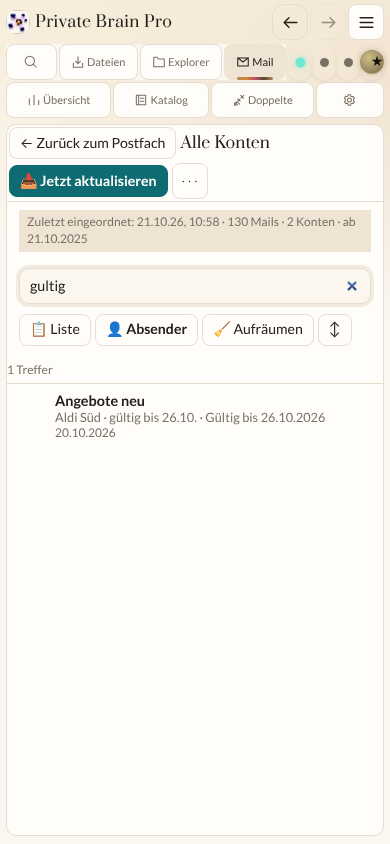
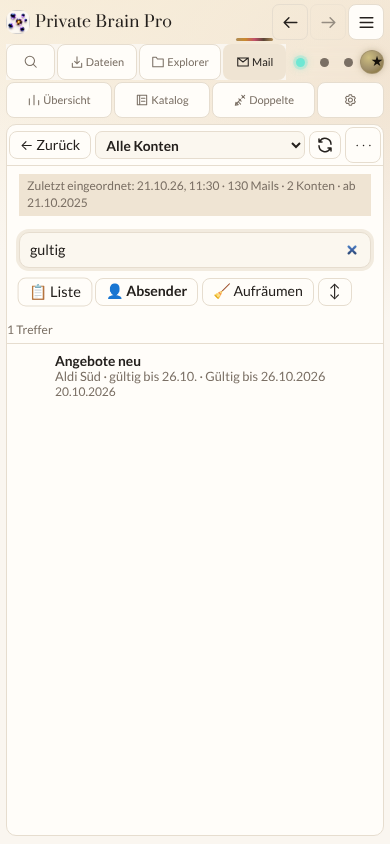
Überall flache Knöpfe, größer unter dem Finger; ⟳ statt Text; Kontoauswahl in Alle Konten
Auf Klaus' Wunsch: alle Knöpfe der Pro-App etwa 28 px ohne Schatten, mit unsichtbar
größerer Tippfläche hinter den Nachbarn und Wachsen beim Antippen. Aktualisieren ist
nur noch das Kreispfeil-Symbol. Der Kopf von „Alle Konten“ steht in einer Zeile:
„← Zurück“, Kontoauswahl (alle oder ein Konto), ⟳ und ⋯; ein gewähltes Konto engt
Liste, Absender, Suche und Aufräumen ein. Die PWA bleibt unverändert.

Claude-Session: https://claude.ai/code/session_015dv9kh7qAxSqSbKYy1eETd

diff --git a/native/native-mail-index.js b/native/native-mail-index.js
@@ -8,10 +8,12 @@
   const languages = ['de', 'en', 'ru', 'pl'];
   const labels = {
     open: ['👥 Alle Konten', '👥 All accounts', '👥 Все аккаунты', '👥 Wszystkie konta'],
-    close: ['← Zurück zum Postfach', '← Back to mailbox', '← Назад к почте', '← Wróć do poczty'],
+    close: ['← Zurück', '← Back', '← Назад', '← Wstecz'],
+    closeLong: ['Zurück zum Postfach', 'Back to mailbox', 'Назад к почте', 'Wróć do poczty'],
+    chooseAccount: ['Konto wählen', 'Choose account', 'Выбрать аккаунт', 'Wybierz konto'],
     title: ['Alle Konten', 'All accounts', 'Все аккаунты', 'Wszystkie konta'],
     fetch: ['📥 Alle Konten abrufen und einordnen', '📥 Fetch and sort all accounts', '📥 Загрузить и упорядочить все аккаунты', '📥 Pobierz i uporządkuj wszystkie konta'],
-    refresh: ['📥 Jetzt aktualisieren', '📥 Update now', '📥 Обновить сейчас', '📥 Aktualizuj teraz'],
+    refresh: ['Jetzt aktualisieren', 'Update now', 'Обновить сейчас', 'Aktualizuj teraz'],
     stop: ['⏹ Anhalten', '⏹ Stop', '⏹ Остановить', '⏹ Zatrzymaj'],
     older: ['Ältere nachholen (weitere 12 Monate)', 'Fetch older (another 12 months)', 'Загрузить старше (ещё 12 месяцев)', 'Pobierz starsze (kolejne 12 miesięcy)'],
     more: ['Weitere Aktionen', 'More actions', 'Другие действия', 'Więcej działań'],
@@ -89,7 +91,7 @@
   const KEYS = { since: 'pb_mail_index_since', state: 'pb_mail_index_state', view: 'pb_mail_index_view', last: 'pb_mail_index_last' };
   function load(key, fallback) { try { const v = JSON.parse(localStorage.getItem(key)); return v ?? fallback; } catch { return fallback; } }
   function store(key, value) { try { localStorage.setItem(key, JSON.stringify(value)); } catch { /* Preference only. */ } }
-  const view = Object.assign({ mode: 'senders', order: 'newest' }, load(KEYS.view, {}));
+  const view = Object.assign({ mode: 'senders', order: 'newest', account: 'all' }, load(KEYS.view, {}));
   if (!['senders', 'list', 'clean'].includes(view.mode)) view.mode = 'senders';
   if (!['newest', 'oldest'].includes(view.order)) view.order = 'newest';
 
@@ -119,6 +121,11 @@
   const hashText = async text => sha256(new TextEncoder().encode(text).buffer);
   const indexed = () => CATALOG.filter(r => r.mailIndex && r.mail);
   const visible = () => indexed().filter(r => !r.mailTrashed);
+  // The header choice "Alle Konten" or one account narrows every list, search and clean-up view.
+  const shown = () => view.account === 'all' ? visible() : visible().filter(r => (r.mailRemotes || []).some(l => l.account === view.account));
+  function knownAccounts() { const map = new Map(); for (const r of indexed()) for (const l of r.mailRemotes || []) if (l.email && !map.has(l.account)) map.set(l.account, l.email); return map; }
+  const SVG = 'http://www.w3.org/2000/svg';
+  function refreshIcon() { const svg = document.createElementNS(SVG, 'svg'); svg.setAttribute('viewBox', '0 0 24 24'); svg.setAttribute('aria-hidden', 'true'); svg.classList.add('mail-all-icon'); const path = document.createElementNS(SVG, 'path'); path.setAttribute('d', 'M20 11a8 8 0 0 0-14.9-3.9M4 4v4h4M4 13a8 8 0 0 0 14.9 3.9M20 20v-4h-4'); svg.append(path); return svg; }
   function fmtDate(ms) { return ms ? new Date(ms).toLocaleDateString(document.documentElement.lang || 'de', { day: '2-digit', month: '2-digit', year: 'numeric' }) : ''; }
   function fmtTime(ms) { return ms ? new Date(ms).toLocaleString(document.documentElement.lang || 'de', { dateStyle: 'short', timeStyle: 'short' }) : ''; }
 
@@ -317,7 +324,7 @@
   const guarded = r => r.mailFlagged || r.mailStar || r.mailSenderMark === 'important' || r.mailKeep || !r.mailMessageId;
   function sorted() {
     const out = { expired: [], check: [], running: [] };
-    for (const r of visible().filter(isNewsletter)) {
+    for (const r of shown().filter(isNewsletter)) {
       const v = validUntil(r);
       if (!v.until) out.check.push(r);
       else if (PBMailExpiry.expired(v.until) && !guarded(r)) out.expired.push(r);
@@ -497,16 +504,24 @@
     if (panel.hidden) return;
     const keepFocus = document.activeElement?.dataset?.mailAll === 'search', caret = keepFocus ? document.activeElement.selectionStart : 0;
     panel.replaceChildren();
-    const head = el('div', 'mail-head'), last = load(KEYS.last, null);
-    head.append(button(t('close'), () => show(false), 'mail-back'), el('h2', '', t('title')));
+    const head = el('div', 'mail-head mail-all-head'), last = load(KEYS.last, null);
+    const back = button(t('close'), () => show(false), 'mail-back'); back.title = t('closeLong'); back.setAttribute('aria-label', t('closeLong'));
+    // One row: Zurück · Kontoauswahl (zeigt „Alle Konten“ oder die Adresse) · ⟳ · ⋯
+    const accounts = knownAccounts(), pick = el('select', 'mail-all-account'); pick.setAttribute('aria-label', t('chooseAccount')); pick.dataset.mailAll = 'account';
+    pick.append(new Option(t('title'), 'all'), ...[...accounts].map(([id, email]) => new Option(email, id)));
+    if (view.account !== 'all' && !accounts.has(view.account)) view.account = 'all';
+    pick.value = view.account; pick.onchange = () => { view.account = pick.value; selectedSender = null; openRecord = null; store(KEYS.view, view); draw(); };
+    const title = el('h2', 'mail-all-title', t('title')); title.hidden = accounts.size > 0;
+    head.append(back, title); if (accounts.size) head.append(pick);
     if (running) head.append(button(t('stop'), () => { stopRequested = true; progress(t('stopped')); }));
-    else head.append(button(last ? t('refresh') : t('fetch'), () => sync(false), 'mail-primary'));
+    else if (last) { const again = button('', () => sync(false), 'mail-all-refresh'); again.append(refreshIcon()); again.title = t('refresh'); again.setAttribute('aria-label', t('refresh')); again.dataset.mailAll = 'refresh'; head.append(again); }
+    else head.append(button(t('fetch'), () => sync(false), 'mail-primary'));
     const tools = el('details', 'mail-account-tools'), summary = el('summary', 'mail-button', t('more')), menu = el('div', 'mail-account-menu');
     menu.append(button(t('older'), () => { tools.open = false; store(KEYS.since, (load(KEYS.since, 0) || Date.now() - YEAR) - YEAR); sync(false); }));
     tools.append(summary, menu); if (!running) head.append(tools);
     panel.append(head);
     status = el('p', 'mail-notice'); status.setAttribute('role', 'status'); status.setAttribute('aria-live', 'polite');
-    const all = visible(), since = load(KEYS.since, 0);
+    const all = shown(), since = load(KEYS.since, 0);
     status.textContent = running ? progressText : [progressText, lastProblem, last ? t('last') + ' ' + fmtTime(last.at) + ' · ' + all.length + ' ' + t('mails') + ' · ' + last.accounts + ' ' + t('accounts') + (since ? ' · ' + t('since') + ' ' + fmtDate(since) : '') : t('never')].filter(Boolean).join(' · ');
     panel.append(status);
     if (lastRun && !running) {

diff --git a/native/native.css b/native/native.css
@@ -408,20 +408,20 @@ body .wrap { min-width:0;height:100vh;height:calc(100dvh - env(safe-area-inset-t
 /* Flache Knöpfe (Klaus 2026-10-21: „flach wie bei Notion … nicht ganz so flach, müssen gut lesbar sein“;
    Vorbild Workflow PDF, dort 30–32 px). Mehr Platz für Mails, Texte und Dokumente, auch am Handy. */
 #mailWorkspace .mail-app .mail-button, #pb-mail-dupes .mail-button {
-  min-height:32px; padding:4px 10px; font-size:.88rem; line-height:1.2; border-radius:8px;
+  min-height:28px; padding:3px 10px; font-size:.88rem; line-height:1.2; border-radius:8px;
   box-shadow:none; background:var(--card); border:1px solid var(--line);
 }
 #mailWorkspace .mail-app .mail-button.mail-primary, #pb-mail-dupes .mail-button.mail-primary {
   background:var(--mail-accent); border-color:var(--mail-accent); color:var(--card); font-weight:600;
 }
-#mailWorkspace .mail-app .mail-button:active, #pb-mail-dupes .mail-button:active { transform:none; background:var(--mail-soft); }
+#mailWorkspace .mail-app .mail-button:active, #pb-mail-dupes .mail-button:active { transform:scale(1.12); z-index:3; background:var(--mail-soft); }
 #mailWorkspace .mail-app .mail-button.mail-primary:active { background:var(--mail-accent); filter:brightness(.92); }
 .mail-all-list .mail-item button { min-height:48px; padding:6px; }
 .mail-all-clean-row > .mail-button { min-height:32px; margin:0 12px 6px; }
 .mail-all > input[type=search] { min-height:36px; }
 .mail-all-switch { gap:4px; padding:6px 12px; }
-#explorerOrder { min-height:32px; padding:4px 10px; box-shadow:none; }
-.explorer-content { min-height:32px; font-size:.88rem; }
+#explorerOrder { min-height:28px; padding:3px 10px; box-shadow:none; }
+.explorer-content { min-height:28px; font-size:.88rem; }
 @media(max-width:650px) {
   .mail-all-switch { flex-wrap:nowrap; overflow-x:auto; overscroll-behavior-x:contain; scrollbar-width:none; }
   .mail-all-switch > .mail-button { flex:none; white-space:nowrap; }
@@ -430,8 +430,42 @@ body .wrap { min-width:0;height:100vh;height:calc(100dvh - env(safe-area-inset-t
 
 /* Obere Leiste flacher (Klaus 2026-10-21); Suche und Einstellungen nur als Lupe und Zahnrad,
    das App-Menü als ☰ statt eines zweiten Zahnrads. */
-.native-toolbar-row .tab { min-height:32px; padding:4px 8px!important; }
-.native-toolbar-row .tab.compact-icon-only { padding:4px 8px!important; }
-@media(pointer:coarse) { .compact-tool { min-height:36px!important; height:36px; min-width:36px; width:36px; } }
+.native-toolbar-row .tab { min-height:30px; padding:3px 7px!important; }
+.native-toolbar-row .tab.compact-icon-only { padding:3px 7px!important; }
+@media(pointer:coarse) { .compact-tool { min-height:32px!important; height:32px; min-width:32px; width:32px; } }
 .mail-all > * { flex-shrink:0; }
 .mail-all > input[type=search] { height:36px; padding:4px 10px; font-size:.9rem; }
+
+/* Überall flache, schmale Knöpfe (Klaus 2026-10-21: „überall flach, vielleicht noch etwas flacher …
+   wenn ich mit dem Finger drauf gehe, können die Button größer werden … so treffe ich sie besser“).
+   Sichtbar etwa 28 px; die Tippfläche reicht unsichtbar 7 px über und unter den Knopf hinaus.
+   Beim Antippen (und mit der Maus darüber) wird der Knopf sichtbar größer. Nur Pro-App, nicht die PWA. */
+button, .btn { padding:3px 10px; min-height:28px; border-radius:7px; box-shadow:none; font-size:.86rem; line-height:1.2; }
+button.primary { box-shadow:none; }
+button, .btn, summary.mail-button { position:relative; transition:transform .1s ease-out, background-color .12s, border-color .12s; }
+button::after, .btn::after { content:""; position:absolute; inset:-7px 0; z-index:-1; } /* only in free gaps, never over a neighbour */
+button:hover, .btn:hover { transform:none; }
+@media(hover:hover) { button:not(:disabled):hover, .btn:hover { transform:scale(1.04); z-index:2; } }
+button:not(:disabled):active, .btn:active, summary.mail-button:active { transform:scale(1.12); z-index:3; }
+@media(prefers-reduced-motion:reduce) {
+  button:not(:disabled):active, .btn:active, button:not(:disabled):hover { transform:none; outline:2px solid var(--acc); outline-offset:1px; }
+}
+#panel-intake .btnrow button { min-height:28px; padding:3px 12px; font-size:.86rem; }
+.mail-all-head { flex-wrap:nowrap; gap:6px; }
+.mail-all-head > .mail-all-account { flex:1 1 auto; min-width:0; max-width:100%; height:28px; min-height:28px; padding:2px 6px; font-size:.86rem; font-weight:600; border-radius:7px; }
+.mail-all-head > h2 { flex:1 1 auto; min-width:0; margin:0; font-size:1rem; }
+.mail-all-refresh { min-width:32px; justify-content:center; padding:3px 6px!important; }
+.mail-all-icon { width:18px; height:18px; fill:none; stroke:currentColor; stroke-width:2; stroke-linecap:round; stroke-linejoin:round; }
+.mail-all .mail-head { padding:6px 12px; }
+.mail-all-list .mail-item button { min-height:44px; padding:4px 6px; }
+.mail-all-list .mail-item button::after, #explorerFiles button::after { inset:0; }
+/* Ganze Zeilen und Kacheln wachsen nicht mit; sie zeigen das Antippen über die Fläche. */
+.mail-item button:hover, .mail-item button:active, .tile:hover, .tile:active, .native-dashboard-link:hover, .native-dashboard-link:active, .mail-folder:hover, .mail-folder:active { transform:none!important; }
+.mail-item button:active, .mail-folder:active { background:var(--mail-soft); }
+/* Explorer-Leiste flach wie der Rest (Klaus 2026-10-21) */
+.explorer-toolbar input, .explorer-toolbar select { min-height:30px; height:30px; padding:2px 8px; font-size:.86rem; }
+.explorer-toolbar .explorer-content { min-height:28px; height:28px; }
+.explorer-toolbar .explorer-content input { width:18px; height:18px; min-height:0; }
+.explorer-toolbar button { min-height:28px; }
+.mail-all-head > .mail-back, .mail-all-head > .mail-all-refresh, .mail-all-head > details { flex:none; white-space:nowrap; }
+.mail-all-head > details > summary { min-height:28px; padding:3px 8px; }

diff --git a/native/native-toolbar.js b/native/native-toolbar.js
@@ -9,6 +9,8 @@
   const offlineWords={de:['App vom Internet trennen','Internetzugriff wieder erlauben','Netzwerkeinstellung konnte nicht geändert werden.'],en:['Disconnect app from internet','Allow internet access again','Unable to change the network setting.'],ru:['Отключить приложение от интернета','Снова разрешить интернет','Не удалось изменить настройку сети.'],pl:['Odłącz aplikację od internetu','Ponownie zezwól na internet','Nie można zmienić ustawienia sieci.']};
   const offText=i=>(offlineWords[document.documentElement.lang]||offlineWords.de)[i];
   document.querySelector('header .badge-off')?.remove();
+  // Lets the WebView show :active (the button grows under the finger) on touch.
+  document.addEventListener('touchstart',()=>{},{passive:true});
   const text=i=>(strings[document.documentElement.lang]||strings.de)[i];
   const captions={de:['Suchen','Dateien','Explorer','Mail','Übersicht','Katalog','Doppelte','Einstellungen'],en:['Search','Files','Explorer','Mail','Overview','Catalog','Duplicates','Settings'],ru:['Поиск','Файлы','Проводник','Почта','Обзор','Каталог','Дубликаты','Настройки'],pl:['Szukaj','Pliki','Eksplorator','Poczta','Pulpit','Katalog','Duplikaty','Ustawienia']};
   const pages=['search','intake','explorer','mail','dash','order','dupes','settings'];
@@ -21,7 +23,7 @@
     dupes:'m5 19 8-8m-3-1 4 4m-5 1 4 4m-9 2 1-5 4 4-5 1 M15 4l5 5m-5 0 5-5',
     settings:'m9 3-.5 2-2 1-2-.5-2 3 1.5 1.5v3L2.5 15l2 3 2-.5 2 1L9 21h4l.5-2.5 2-1 2 .5 2-3-1.5-1.5v-3L19.5 9l-2-3-2 .5-2-1L13 3Z M14.5 12a3.5 3.5 0 1 1-7 0 3.5 3.5 0 0 1 7 0',
     back:'M20 12H4m6-6-6 6 6 6',next:'M4 12h16m-6-6 6 6-6 6',
-    refresh:'M20 7V3l-4 4 M20 7a9 9 0 1 0 1 8',compose:'M14 5 19 10 M4 20l5-1L21 7l-5-5L4 14Z',
+    refresh:'M20 11a8 8 0 0 0-14.9-3.9M4 4v4h4M4 13a8 8 0 0 0 14.9 3.9M20 20v-4h-4',compose:'M14 5 19 10 M4 20l5-1L21 7l-5-5L4 14Z',
     more:'M4 12h.1m7.9 0h.1m7.9 0h.1',menu:'M4 6h16M4 12h16M4 18h16',reply:'m9 5-7 7 7 7V14c6 0 10 1 13 5-1-8-5-11-13-11Z',
     forward:'m15 5 7 7-7 7V14c-6 0-10 1-13 5 1-8 5-11 13-11Z',
     trash:'M3 6h18M9 6V3h6v3M5 6l1 15h12l1-15M10 10v7m4-7v7',

diff --git a/docs/EXPLORER-SORTIEREN-UND-INHALT.md b/docs/EXPLORER-SORTIEREN-UND-INHALT.md
@@ -59,3 +59,30 @@ Notion-Button. Müssen ja immer noch gut lesbar sein.“*
 - Nur in der Pro-App (`native/native.css`). Die PWA bleibt unverändert.
 - Grenze: 32 px liegen unter der oft empfohlenen Tippfläche von 44 px. Das ist so gewollt;
   am Tablet ist das noch nicht gemessen.
+
+## Zweite Runde (Klaus 2026-10-21): überall flach, wachsen unter dem Finger
+
+Klaus: *„die Knöpfe sollen überall flach sein, vielleicht noch etwas flacher … wenn ich mit dem
+Finger drauf gehe, können die Button größer werden … so treffe ich sie besser.“*
+
+- **Alle Knöpfe der Pro-App** (Grundregel `button`/`.btn` in `native/native.css`, überstimmt
+  `index.html`; die PWA bleibt unverändert): sichtbar etwa **28 px**, Innenabstand 3 px oben und unten,
+  ohne Schatten. Leistenknöpfe 30 px, auf Touch-Geräten 32 px. Explorer-Felder 30 px.
+- **Größere Tippfläche ohne mehr Platz:** Ein unsichtbarer Rand reicht 7 px über und unter jeden
+  Knopf hinaus. Er liegt *hinter* allem anderen (`z-index:-1`) und greift deshalb nur in freien
+  Lücken, nie über einem Nachbarknopf.
+  - Erster Versuch ohne diese Sicherung: Im App-Menü fing der Rand eines Knopfs das Tippen auf den
+    Knopf darüber ab (gefangen von `test-compact-network`).
+  - Davor ragte der Rand auch 3 px zur Seite und machte die Suche bei 280 px seitlich schiebbar
+    (gefangen von `test-web`). Jetzt reicht er nur nach oben und unten.
+- **Wachsen beim Antippen:** Ein gedrückter Knopf wird um 12 % größer (mit der Maus darüber 4 %).
+  Ganze Zeilen und Kacheln wachsen nicht, sie färben sich nur. Wer Bewegung abgeschaltet hat,
+  sieht stattdessen einen Rahmen.
+- **Aktualisieren** ist nur noch das Kreispfeil-Symbol ⟳ (zwei gegenläufige Pfeile), auch in der
+  Werkzeugleiste des Postfachs. Der Name steht als Tooltip und für Vorlesehilfen da.
+- **„Alle Konten“, Kopfzeile in einer Zeile:** „← Zurück“ (statt „← Zurück zum Postfach“), dann eine
+  **Kontoauswahl**, die „Alle Konten“ oder die Adresse des gewählten Kontos zeigt, dann ⟳ und ⋯.
+  Mit einem einzelnen Konto zeigen Liste, Absender, Suche und Aufräumen nur dessen Mails.
+- Proben: `test-mail-index` **61 grün** (Kopf in einer Zeile, Kontoauswahl, ⟳ ohne Text,
+  Tippfläche 7 px, Wachsen auf 1,12, „← Zurück“ einzeilig), `test-explorer-order` 17,
+  ganze Reihe `test:native-web` grün. Bilder: `docs/design/flach/`, `docs/design/alle-konten/`.

diff --git a/CLAUDE.md b/CLAUDE.md
@@ -1,8 +1,9 @@
 # Private Brain Pro — Sitzungs-Anker
 
 **Knöpfe flach halten (Klaus 2026-10-21):** „flach wie bei Notion, aber nicht ganz so flach, gut lesbar“ – damit
-Mails und Dokumente Platz haben, auch am Handy. Richtwert 32 px, ohne 3D-Schatten (Vorbild Workflow PDF 30–32 px).
-Neue Knöpfe nicht größer bauen. Obere Leiste: Suche/Einstellungen nur Lupe/Zahnrad, App-Menü ☰. [Details](docs/EXPLORER-SORTIEREN-UND-INHALT.md#flache-knöpfe-klaus-2026-10-21).
+Mails und Dokumente Platz haben, auch am Handy. **Überall** in der Pro-App etwa 28 px, ohne Schatten; unsichtbare
+Tippfläche 7 px darüber/darunter (hinter Nachbarn), beim Antippen wächst der Knopf (×1,12). Symbole statt Wörter, wo
+allgemein bekannt: Lupe, Zahnrad, ☰ fürs App-Menü, ⟳ fürs Aktualisieren. Neue Knöpfe nicht größer bauen. [Details](docs/EXPLORER-SORTIEREN-UND-INHALT.md#flache-knöpfe-klaus-2026-10-21).
 
 **Ordnen, Sortieren, Suchen (2026-10-21): Plan freigegeben, Grundlage + A1 + A2 + A3 gebaut, noch keine Vorschau.**
 A3: Explorer neueste oben, ↕, „🔎 auch im Inhalt“: [Explorer](docs/EXPLORER-SORTIEREN-UND-INHALT.md).
